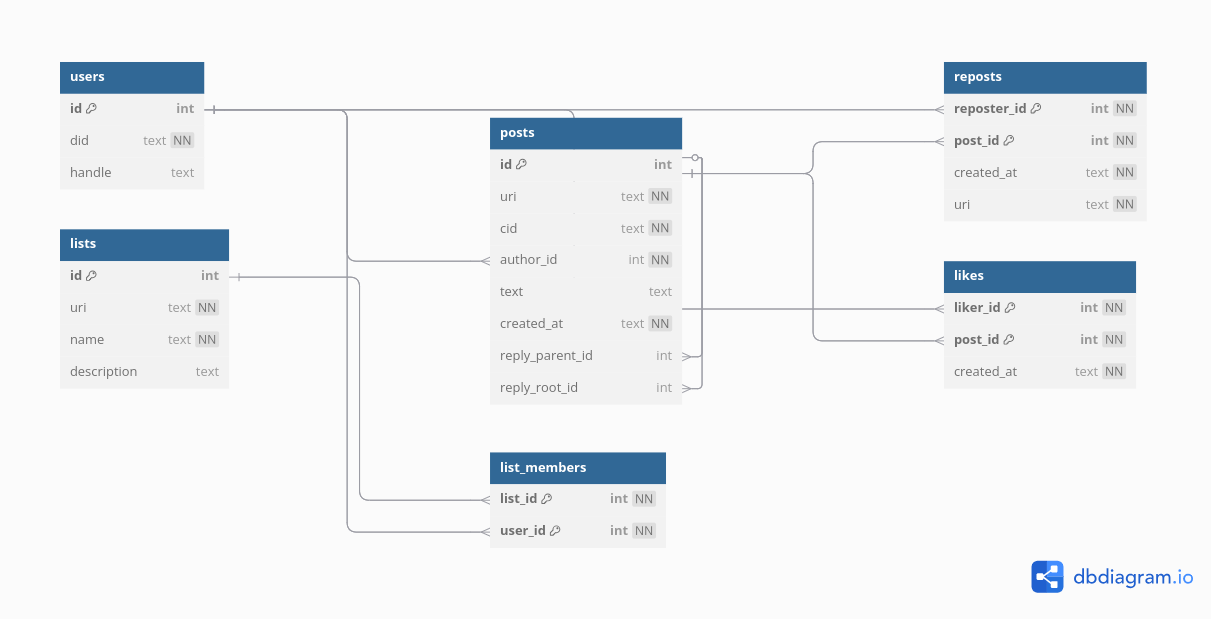
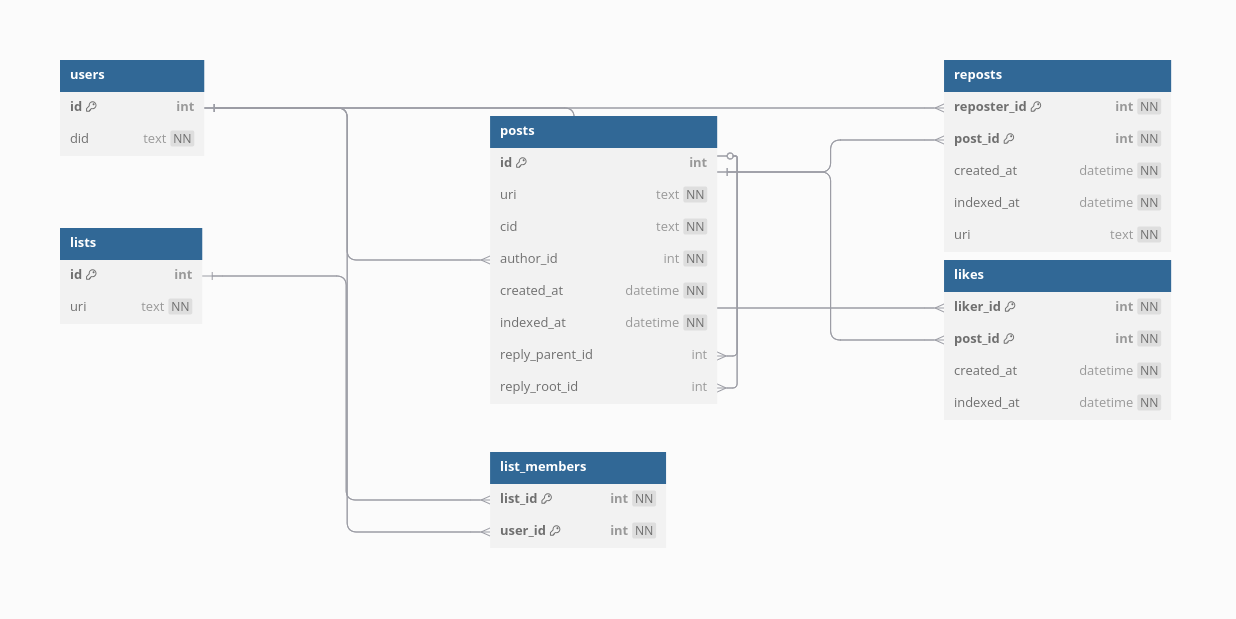
Add database models for User, List, Post, Repost, and Like

diff --git a/pkg/db/models.go b/pkg/db/models.go
@@ -1,0 +1,86 @@
+package db
+
+import (
+	"time"
+
+	"github.com/uptrace/bun"
+)
+
+type User struct {
+	bun.BaseModel `bun:"table:users,alias:u"`
+
+	ID  int64  `bun:",pk,autoincrement"`
+	DID string `bun:",notnull,unique"`
+
+	Posts   []*Post   `bun:"rel:has-many,join:id=author_id"`
+	Reposts []*Repost `bun:"rel:has-many,join:id=reposter_id"`
+	Likes   []*Like   `bun:"rel:has-many,join:id=liker_id"`
+}
+
+type List struct {
+	bun.BaseModel `bun:"table:lists,alias:l"`
+
+	ID          int64  `bun:",pk,autoincrement"`
+	URI         string `bun:",notnull,unique"`
+	ListMembers []User `bun:"m2m:list_members,join:List=User"`
+}
+
+// TODO: Register many-to-many model in init()
+// https://bun.uptrace.dev/guide/relations.html#many-to-many-relation
+type ListToUser struct {
+	bun.BaseModel `bun:"table:list_members,alias:lm"`
+
+	ListID int64 `bun:",pk"`
+	List   *List `bun:"rel:belongs-to,join:list_id=id"`
+	UserID int64 `bun:",pk"`
+	User   *User `bun:"rel:belongs-to,join:user_id=id"`
+}
+
+type Post struct {
+	bun.BaseModel `bun:"table:posts,alias:p"`
+
+	ID  int64  `bun:",pk,autoincrement"`
+	URI string `bun:",notnull,unique"`
+	CID string `bun:",notnull"`
+
+	AuthorID int64 `bun:",notnull"`
+	Author   *User `bun:"rel:belongs-to,join:author_id=id"`
+
+	CreatedAt time.Time `bun:",notnull"`
+	IndexedAt time.Time `bun:",nullzero,notnull,default:current_timestamp"`
+
+	ReplyParentID int64
+	ReplyParent   *Post `bun:"rel:belongs-to,join:reply_parent_id=id"`
+
+	ReplyRootID int64
+	ReplyRoot   *Post `bun:"rel:belongs-to,join:reply_root_id=id"`
+
+	Reposts []*Repost `bun:"rel:has-many,join:id=post_id"`
+	Likes   []*Like   `bun:"rel:has-many,join:id=post_id"`
+}
+
+type Repost struct {
+	bun.BaseModel `bun:"table:reposts,alias:rp"`
+
+	ReposterID int64 `bun:",pk"`
+	Reposter   *User `bun:"rel:belongs-to,join:reposter_id=id"`
+	PostID     int64 `bun:",pk"`
+	Post       *Post `bun:"rel:belongs-to,join:post_id=id"`
+
+	CreatedAt time.Time `bun:",notnull"`
+	IndexedAt time.Time `bun:",nullzero,notnull,default:current_timestamp"`
+	URI       string    `bun:",notnull,unique"`
+}
+
+type Like struct {
+	bun.BaseModel `bun:"table:likes,alias:lp"`
+
+	LikerID int64 `bun:",pk"`
+	Liker   *User `bun:"rel:belongs-to,join:liker_id=id"`
+	PostID  int64 `bun:",pk"`
+	Post    *Post `bun:"rel:belongs-to,join:post_id=id"`
+
+	CreatedAt time.Time `bun:",notnull"`
+	IndexedAt time.Time `bun:",nullzero,notnull,default:current_timestamp"`
+	URI       string    `bun:",notnull,unique"`
+}
